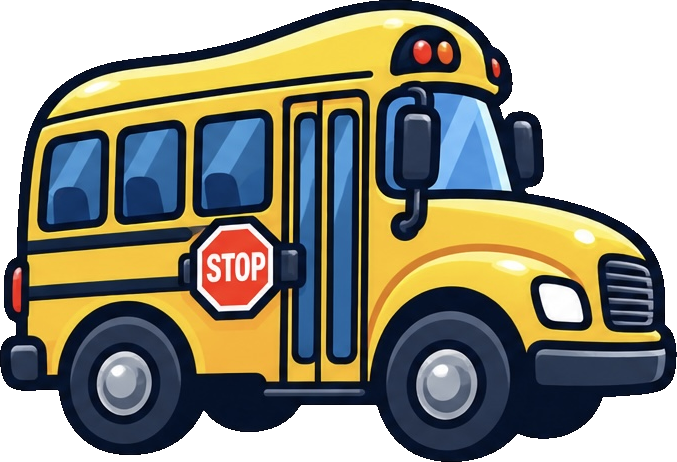
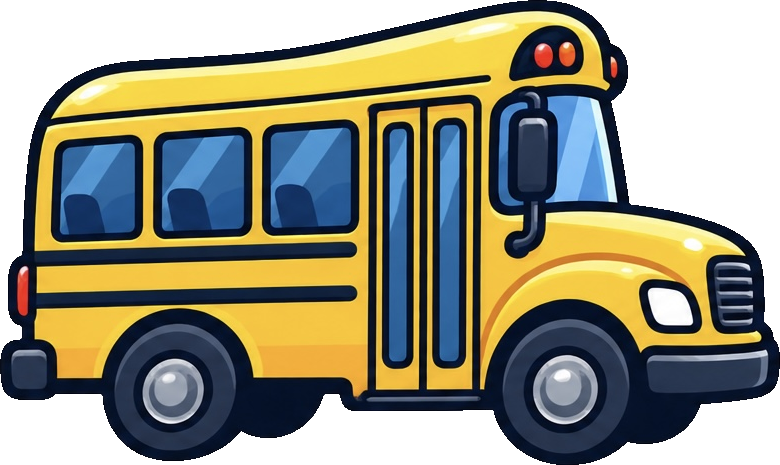
Rework progress bar: scroll+fade for long routes, tighter layout, new bus art
Replaced the percentage-width + marker-thinning approach with a fixed
48px-per-step track. Every turn/stop gets its own marker now (nothing
hidden for density) - a long route just makes the track wider than the
visible window, auto-scrolled via CSS transform (not native scroll,
matching the rest of the app) to keep the current position roughly
centered, clamped to the track's own start/end. A CSS mask-image fades
whichever edge(s) actually have hidden content, so a short route that
fits entirely shows no fade, and the trailing/leading edge stops fading
once you're at the very start/end. Container width is measured via
ResizeObserver since it varies with the portrait/landscape split.

Other changes: outer horizontal padding halved (px-8 -> px-4). Markers
moved closer to the road (bottom-5, was a separate margined row).
Dashed center line now uses top-1/2 -translate-y-1/2 instead of just
top-1/2, which left it a hair off-center on a zero-height element -
confirmed centered via a zoomed screenshot crop, not just the code
change. New bus artwork (background removed the same way as before),
sized exactly 25% smaller (h-8/h-10 -> h-[1.5rem]/h-[1.875rem], i.e.
32px/40px * 0.75), and the gap to the caret arrow below it tightened
(mt-1.5 -> mt-0.5).

Verified by stepping through the full 22-step route in a landscape
tablet viewport and screenshotting three points: step 1 (no left fade,
right fade since the route continues off-screen), mid-route (both
[…]

diff --git a/src/components/RouteProgressBar.tsx b/src/components/RouteProgressBar.tsx
@@ -1,33 +1,30 @@
+"use client";
+
 import Image from "next/image";
+import { useEffect, useMemo, useRef, useState } from "react";
 import { ChevronDownIcon, TurnArrow } from "./icons";
 import type { NavigationStep } from "@/lib/types";
 
-/** Minimum spacing between rendered markers, as a percent of the bar's
- * width. With a route dense enough to put several markers within this
- * gap (e.g. six stops in a row), only some render - see markersToShow. */
-const MIN_MARKER_GAP_PCT = 7;
+/** Fixed spacing between adjacent markers, so a long route just makes the
+ * track longer (scrolled/faded into view) instead of crowding markers
+ * together. */
+const PX_PER_STEP = 48;
+const EDGE_FADE_PX = 28;
 
-function percentFor(index: number, total: number): number {
-  if (total <= 1) return 0;
-  return (index / (total - 1)) * 100;
+function pixelFor(index: number): number {
+  return index * PX_PER_STEP;
 }
 
-function markersToShow(steps: NavigationStep[], currentIndex: number) {
-  const total = steps.length;
-  const shown: { step: NavigationStep; pct: number }[] = [];
-  let lastPct = -Infinity;
-
-  steps.forEach((step, index) => {
-    if (step.kind !== "turn" && step.kind !== "stop") return;
-    const pct = percentFor(index, total);
-    const mustShow = index === currentIndex || index === 0 || index === total - 1;
-    if (mustShow || pct - lastPct >= MIN_MARKER_GAP_PCT) {
-      shown.push({ step, pct });
-      lastPct = pct;
-    }
-  });
-
-  return shown;
+/** Builds the left/right fade as a CSS mask - only on whichever edge(s)
+ * actually have hidden content, so a route that fits with no scrolling
+ * needed shows no fade at all. */
+function buildFadeMask(showLeft: boolean, showRight: boolean): string | undefined {
+  if (!showLeft && !showRight) return undefined;
+  const left = showLeft ? `transparent, black ${EDGE_FADE_PX}px` : "black 0px";
+  const right = showRight
+    ? `black calc(100% - ${EDGE_FADE_PX}px), transparent`
+    : "black 100%";
+  return `linear-gradient(to right, ${left}, ${right})`;
 }
 
 export function RouteProgressBar({
@@ -38,56 +35,101 @@ export function RouteProgressBar({
   currentIndex: number;
 }) {
   const total = steps.length;
-  const progressPct = percentFor(currentIndex, total);
-  // The bus icon is wide enough that centering it at true 0%/100% would
-  // push it past the screen edge - keep it well inside the bar's ends.
-  const busPct = Math.min(90, Math.max(10, progressPct));
+  const trackWidth = Math.max(pixelFor(total - 1), 1);
+  const currentPx = pixelFor(currentIndex);
+
+  const containerRef = useRef<HTMLDivElement>(null);
+  const [containerWidth, setContainerWidth] = useState(0);
+
+  useEffect(() => {
+    const el = containerRef.current;
+    if (!el) return;
+    const observer = new ResizeObserver((entries) => {
+      setContainerWidth(entries[0].contentRect.width);
+    });
+    observer.observe(el);
+    return () => observer.disconnect();
+  }, []);
+
+  // Keep the current position roughly centered in the visible window,
+  // clamped so we never scroll past either end of the track.
+  const { offset, showLeftFade, showRightFade } = useMemo(() => {
+    if (containerWidth === 0 || trackWidth <= containerWidth) {
+      return { offset: 0, showLeftFade: false, showRightFade: false };
+    }
+    const minOffset = containerWidth - trackWidth; // negative
+    const idealOffset = containerWidth / 2 - currentPx;
+    const clamped = Math.min(0, Math.max(minOffset, idealOffset));
+    return {
+      offset: clamped,
+      showLeftFade: clamped < -0.5,
+      showRightFade: clamped > minOffset + 0.5,
+    };
+  }, [containerWidth, trackWidth, currentPx]);
+
+  const maskImage = buildFadeMask(showLeftFade, showRightFade);
+
+  // The bus icon is wide enough that letting it sit exactly at the
+  // track's own start/end would push part of it past the track edge -
+  // keep it a little inside.
+  const busPx = Math.min(trackWidth - 12, Math.max(12, currentPx));
 
   return (
-    <div className="w-full px-8 pt-2">
-      {/* Bus + caret row - its own row so it never overlaps the markers */}
-      <div className="relative h-16">
+    <div
+      ref={containerRef}
+      className="w-full overflow-hidden px-4 pt-1"
+      style={{ WebkitMaskImage: maskImage, maskImage }}
+    >
+      <div
+        className="relative h-24 transition-transform duration-300 ease-out"
+        style={{ width: trackWidth, transform: `translateX(${offset}px)` }}
+      >
+        {/* Bus + caret */}
         <div
-          className="absolute bottom-0 flex -translate-x-1/2 flex-col items-center transition-[left] duration-300 ease-out"
-          style={{ left: `${busPct}%` }}
+          className="absolute bottom-11 flex -translate-x-1/2 flex-col items-center transition-[left] duration-300 ease-out"
+          style={{ left: busPx }}
         >
           <Image
             src="/assets/bus.png"
             alt=""
-            width={677}
-            height={462}
-            className="h-8 w-auto drop-shadow-md sm:h-10"
+            width={780}
+            height={465}
+            className="h-[1.5rem] w-auto drop-shadow-md sm:h-[1.875rem]"
           />
-          <ChevronDownIcon className="mt-1.5 h-3 w-4" />
+          <ChevronDownIcon className="mt-0.5 h-3 w-4" />
         </div>
-      </div>
 
-      {/* Turn/stop markers, sitting above the road rather than on it */}
-      <div className="relative mt-1 h-5">
-        {markersToShow(steps, currentIndex).map(({ step, pct }) => (
-          <div
-            key={step.id}
-            className="absolute bottom-0 -translate-x-1/2"
-            style={{ left: `${pct}%` }}
-          >
-            {step.kind === "stop" ? (
-              <Image
-                src="/assets/pin.png"
-                alt=""
-                width={350}
-                height={548}
-                className="h-5 w-auto drop-shadow-sm"
-              />
-            ) : (
-              step.direction && <TurnArrow direction={step.direction} className="h-5 w-5" />
-            )}
-          </div>
-        ))}
-      </div>
+        {/* Turn/stop markers - sitting close above the road */}
+        {steps.map((step, index) => {
+          if (step.kind !== "turn" && step.kind !== "stop") return null;
+          return (
+            <div
+              key={step.id}
+              className="absolute bottom-5 -translate-x-1/2"
+              style={{ left: pixelFor(index) }}
+            >
+              {step.kind === "stop" ? (
+                <Image
+                  src="/assets/pin.png"
+                  alt=""
+                  width={350}
+                  height={548}
+                  className="h-5 w-auto drop-shadow-sm"
+                />
+              ) : (
+                step.direction && <TurnArrow direction={step.direction} className="h-5 w-5" />
+              )}
+            </div>
+          );
+        })}
 
-      {/* The road */}
-      <div className="relative mt-1 h-4 w-full rounded-full border-2 border-zinc-600 bg-zinc-400 dark:border-zinc-500 dark:bg-zinc-600">
-        <div className="absolute inset-x-2 top-1/2 border-t-2 border-dashed border-white/90" />
+        {/* The road */}
+        <div
+          className="absolute bottom-0 h-4 rounded-full border-2 border-zinc-600 bg-zinc-400 dark:border-zinc-500 dark:bg-zinc-600"
+          style={{ width: trackWidth }}
+        >
+          <div className="absolute inset-x-2 top-1/2 -translate-y-1/2 border-t-2 border-dashed border-white/90" />
+        </div>
       </div>
     </div>
   );

diff --git a/README.md b/README.md
@@ -179,17 +179,26 @@ landscape (1180×820) viewports.
   at the top of the "everything else" region (below the map/rider region
   in portrait, to its right in landscape), doesn't scroll away.
 - **Progress bar** (`RouteProgressBar.tsx`): styled like a road - gray
-  bar, dark border, dashed white center line. Turn steps get a small
-  circular marker with a mini direction arrow; stop steps get a small
-  map-pin marker. With a 22-step route these would overlap into an
-  unreadable clump at full density, so markers are thinned (greedy,
-  left to right, minimum gap between shown markers) - the current step
-  and both route endpoints always show, everything else only shows if
-  it's far enough from the last shown marker. Markers sit in their own
-  row above the road (not on top of it). A bus icon rides above that, at
-  the current position, with a yellow/black caret pointing down at it;
-  its position is clamped a bit short of 0%/100% so the icon (wider than
-  a marker) doesn't get clipped by the screen edge at the very start/end.
+  bar, dark border, dashed white center line (precisely centered via
+  `top-1/2 -translate-y-1/2`, not just `top-1/2` on a zero-height
+  element, which left it a hair off). Turn steps get a small circular
+  marker with a mini direction arrow, sitting close above the road; stop
+  steps get a small map-pin marker. Every step gets its own marker at a
+  fixed 48px spacing (`PX_PER_STEP`) - no thinning/hiding - so a longer
+  route just makes the underlying track wider than the visible window
+  instead of crowding markers together. That window (`overflow-hidden`
+  outer container) shows a `ResizeObserver`-measured slice of the track,
+  auto-scrolled (via a CSS `transform: translateX()`, not native
+  scrolling - nothing on this app scrolls, see above) to keep the
+  current position roughly centered, clamped so it never scrolls past
+  either end of the track. A CSS `mask-image` fades whichever edge(s)
+  actually have hidden content - neither edge fades if the whole route
+  fits without scrolling, only the trailing edge fades near the very
+  start, only the leading edge fades near the very end. A bus icon rides
+  above the markers at the current position, with a yellow/black caret
+  pointing down at it close beneath it; its position is clamped a bit
+  short of the track's own start/end so the icon (wider than a marker)
+  doesn't get clipped there.
 - **Progress caption**: "Stop X of Y" rather than a raw instruction
   count - the number of turn steps between stops isn't meaningful to a
   driver, so it always shows the stop just reached or the one being
@@ -282,9 +291,11 @@ drop-offs modeled yet - see Next steps).
 - `driverName: "Otto Mann"`, `distance: "8.4 mi"`, and
   `durationMinutes: 28` in `page.tsx` are all placeholders, not real
   data - swap them in once there's an actual driver/routing source
-- The progress bar's marker-thinning is a stopgap for density, not a
-  real fix - a scrollable/zoomable bar, or clustering nearby stops into
-  one marker with a count, would scale better on longer routes
+- The progress bar auto-scrolls but isn't draggable - a driver can't
+  manually pan it to peek further up the route; it only ever tracks the
+  current step. Pinch-zoom on a very long route would also help, since
+  right now the fixed 48px-per-step spacing just makes the track (and
+  the auto-scrolling) longer rather than ever shrinking markers down
 - Move route data into the doc's actual data model
   (District/School/Route/RouteStop/etc.) instead of a flat CSV, once
   there's more than one route
